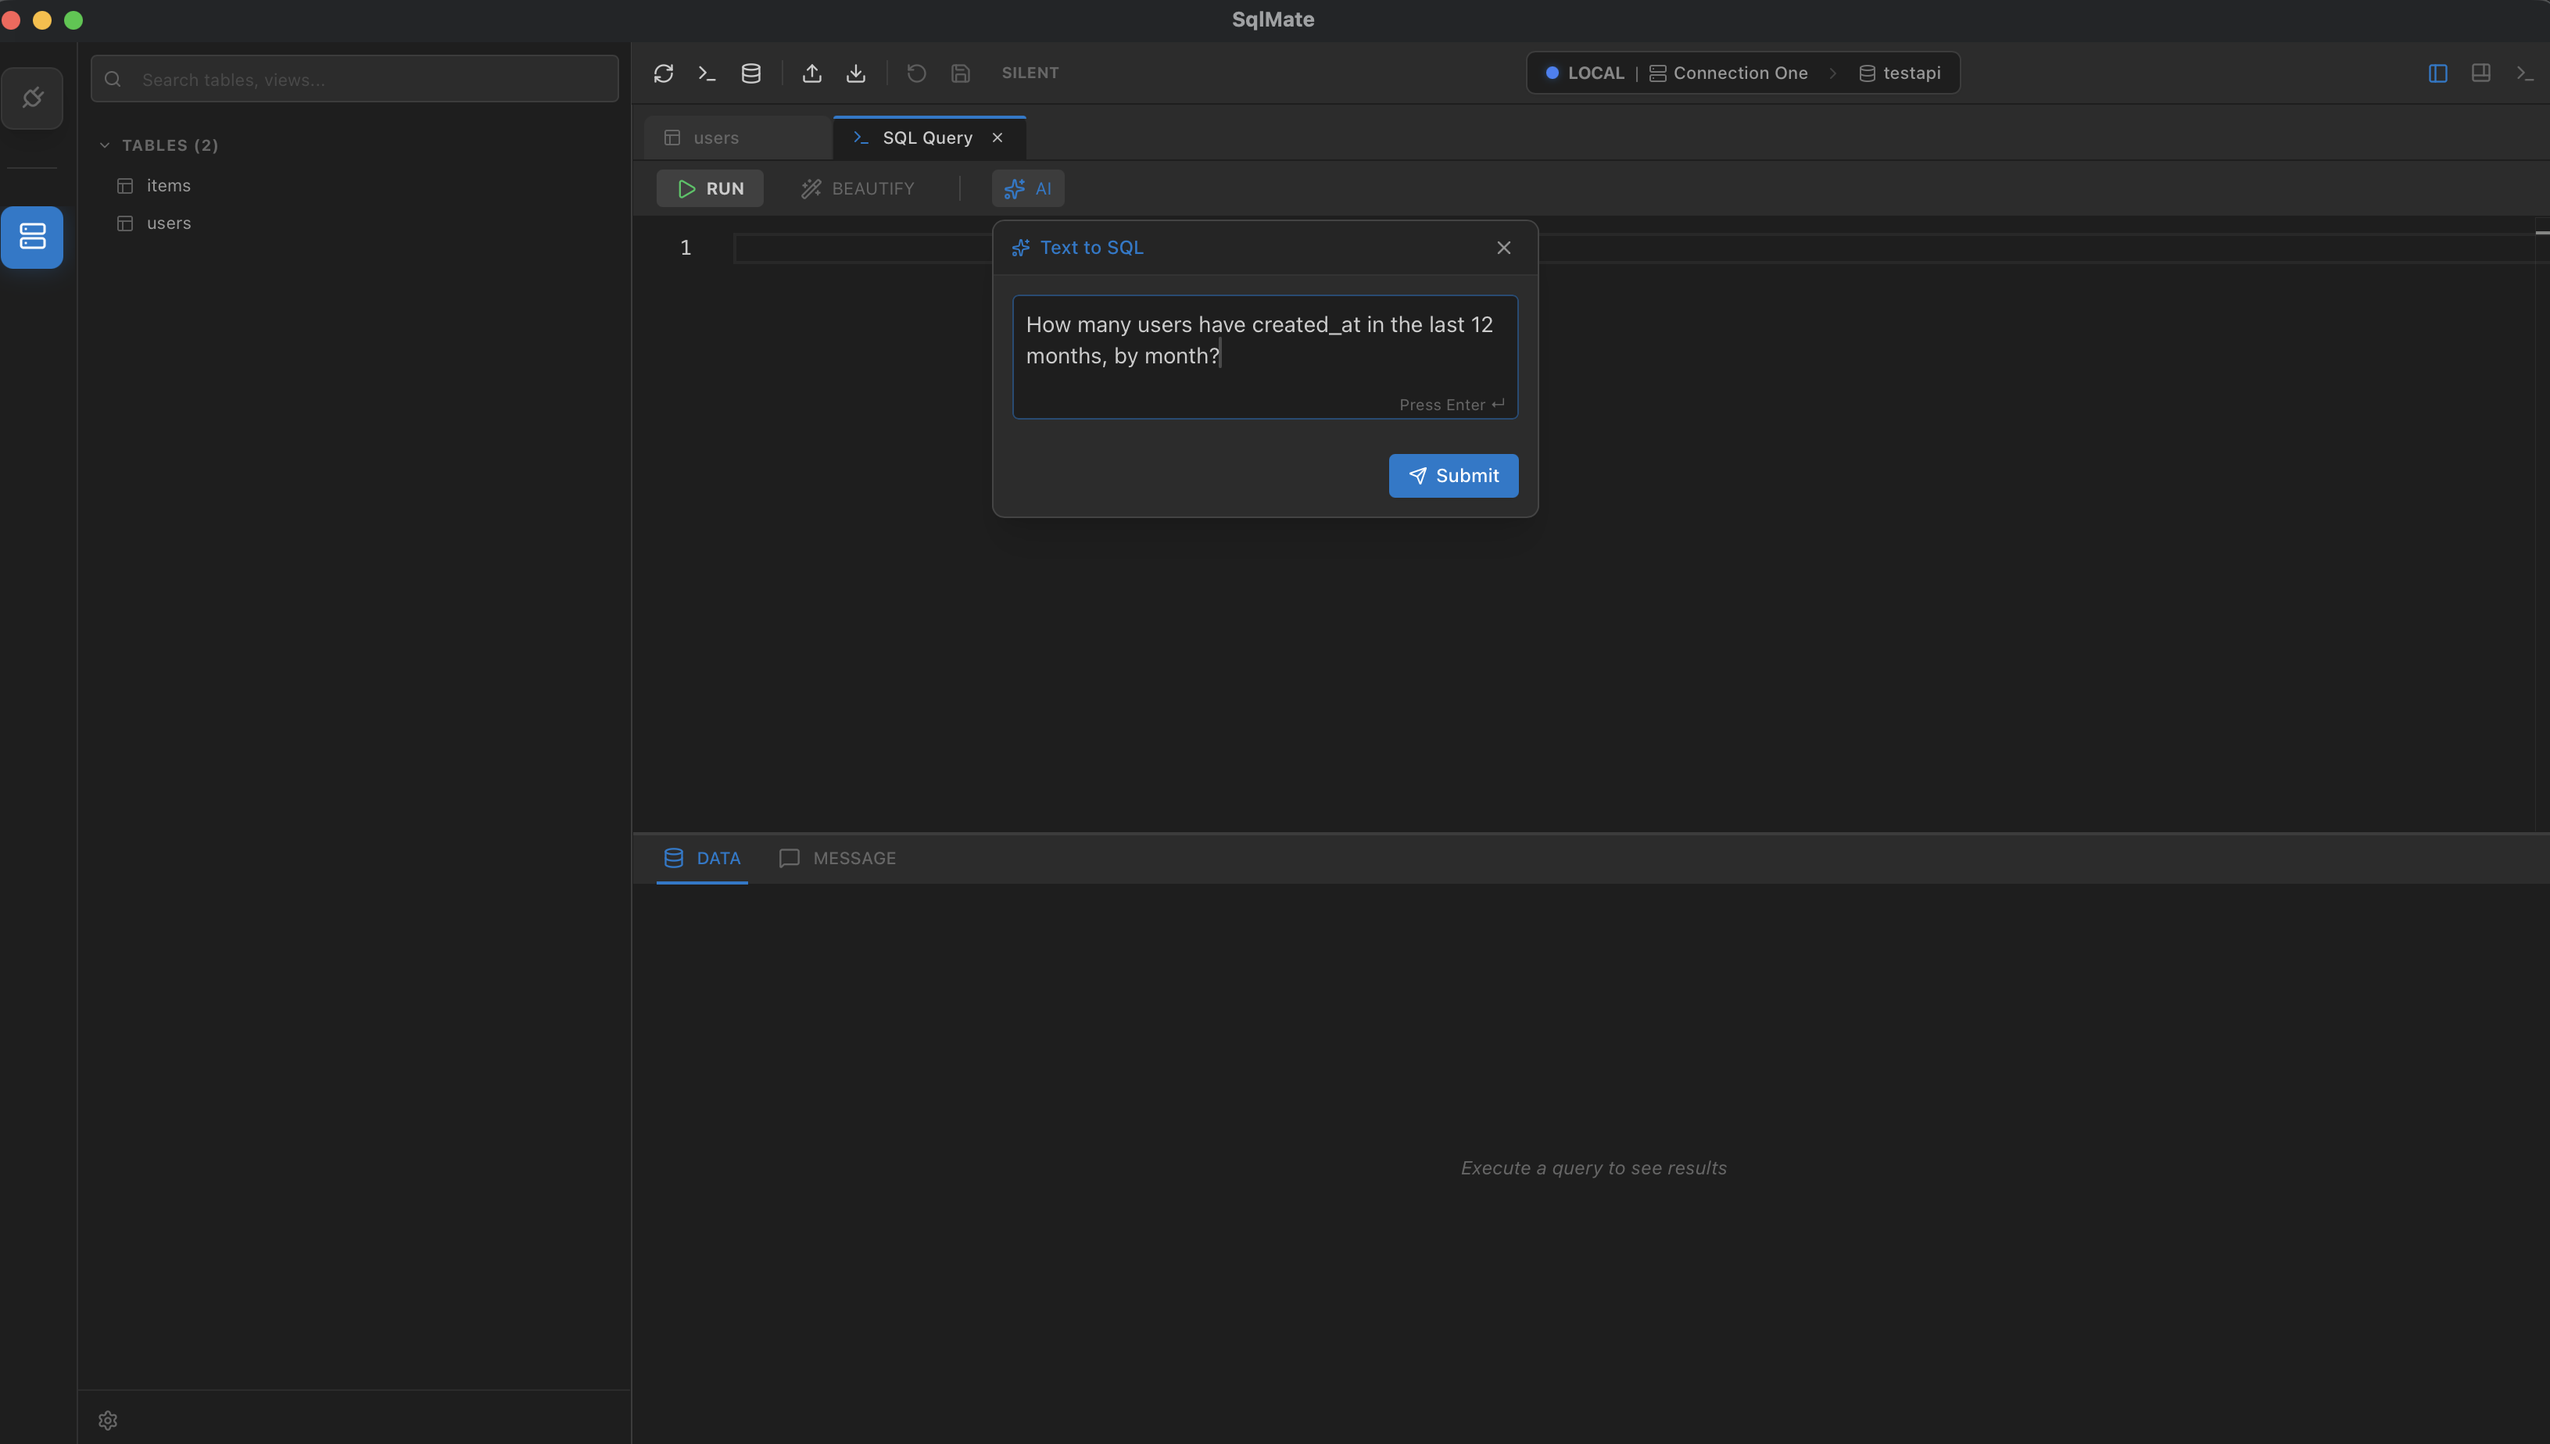
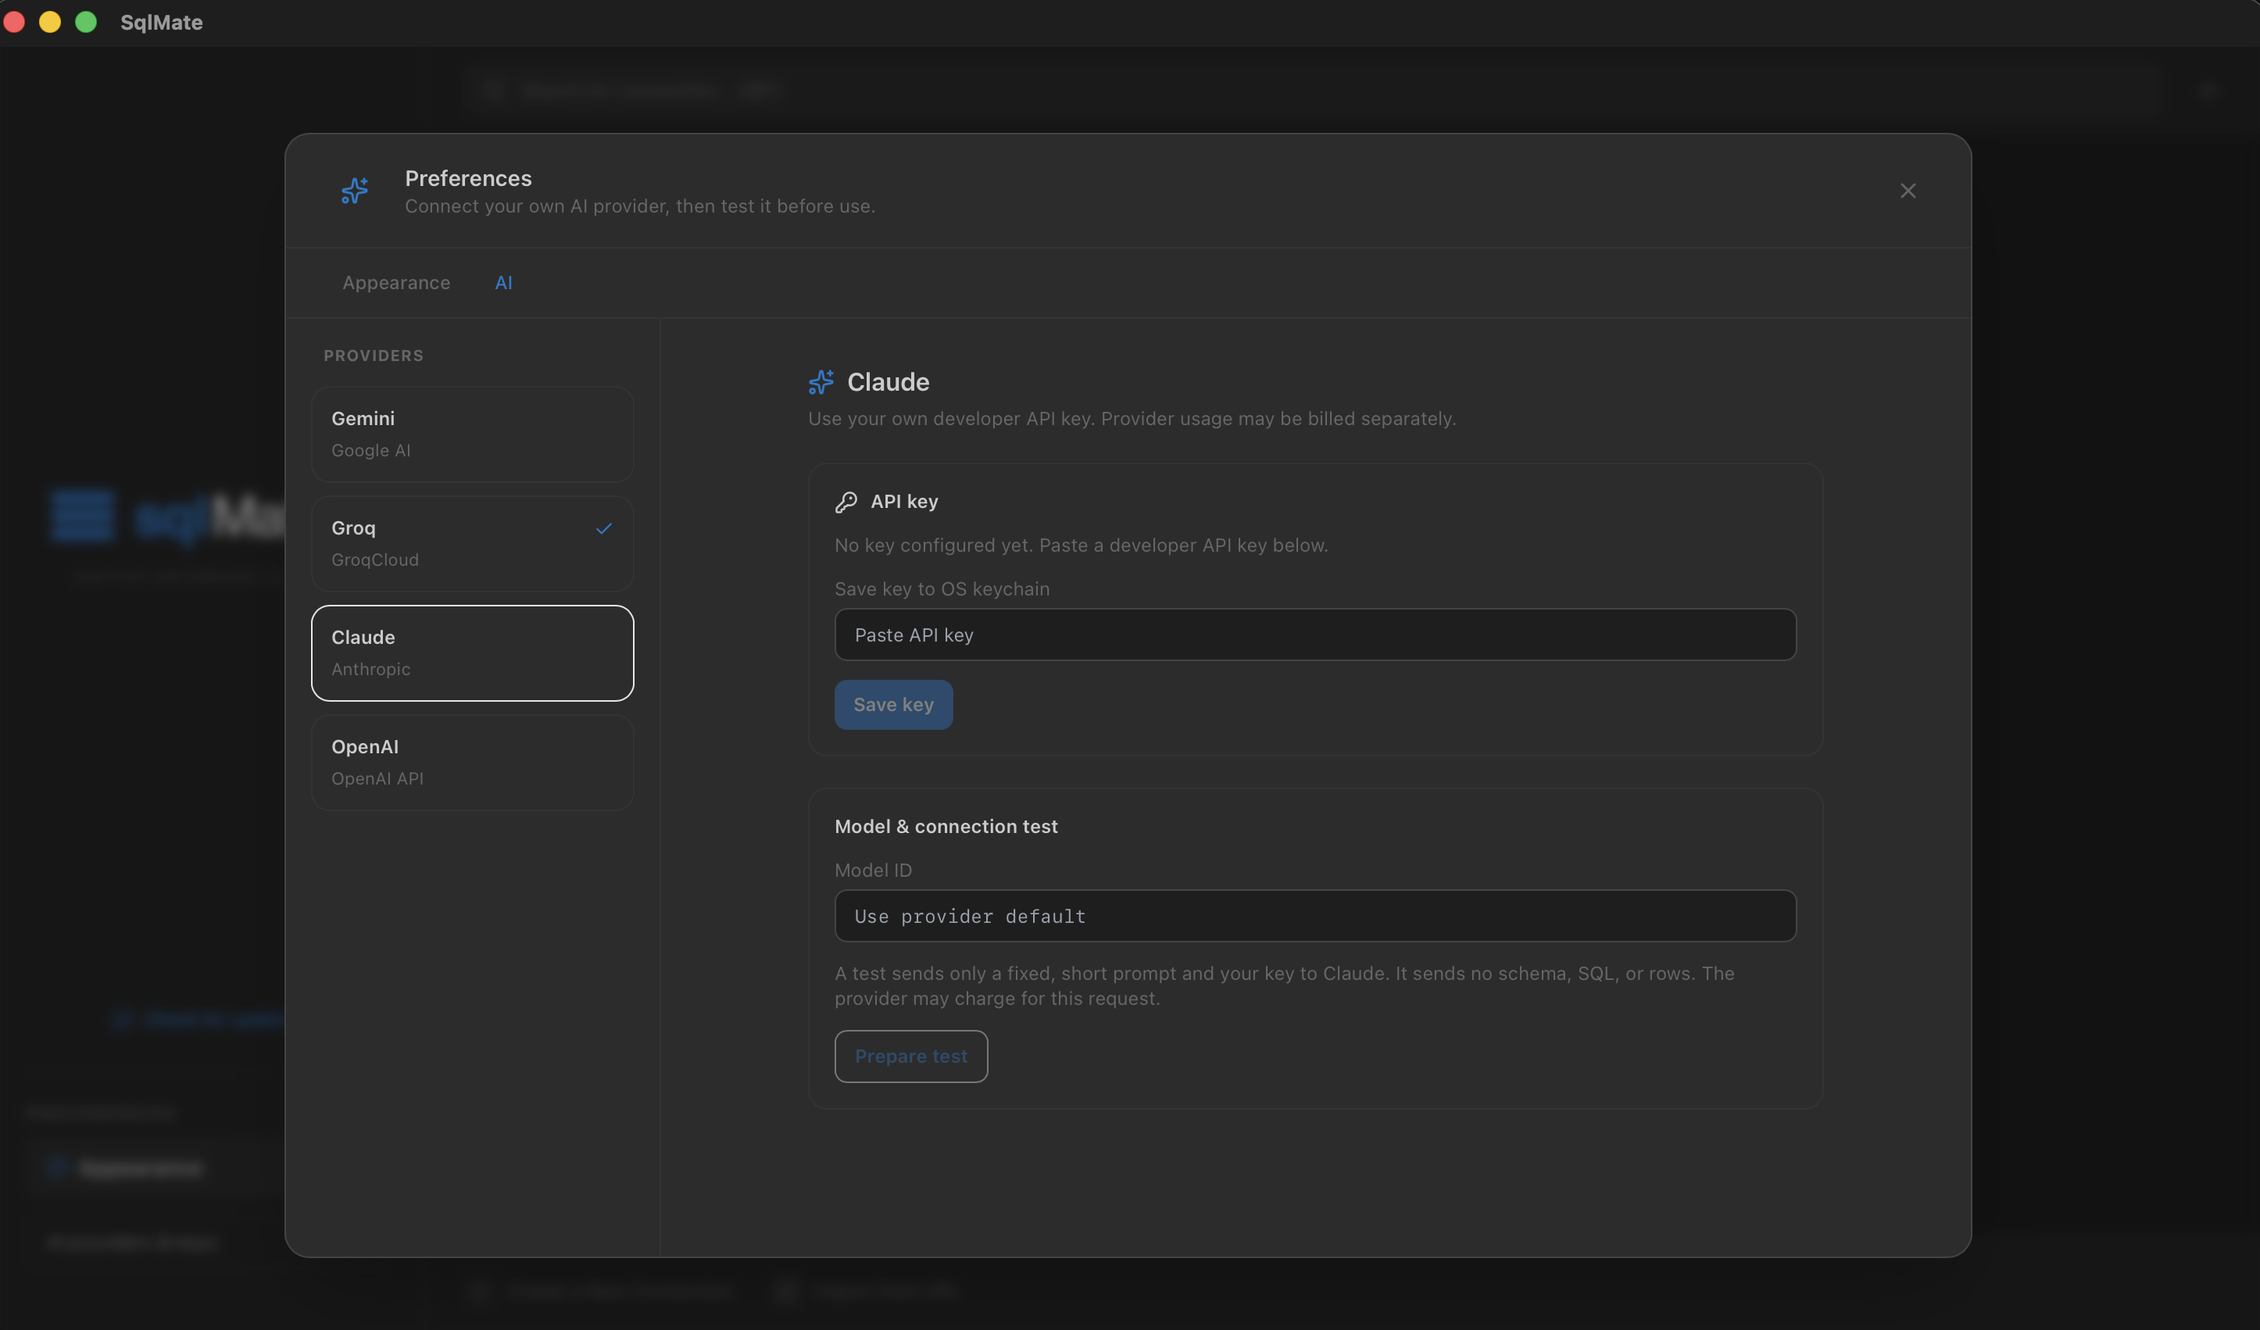
docs: align AI screenshot caption with provider setup

diff --git a/README.md b/README.md
@@ -20,9 +20,9 @@
 </p>
 
 <p align="center">
-  <img src="assets/ai-image.png" width="800" style="max-width: 100%; height: auto;" alt="AI Text-to-SQL Feature" />
+  <img src="assets/ai-image.png" width="800" style="max-width: 100%; height: auto;" alt="AI provider preferences with API key setup and connection test" />
   <br />
-  <em>Generate SQL using natural language with the integrated AI assistant</em>
+  <em>Connect your own AI provider, then test it before use</em>
 </p>
 
 > [!TIP]
